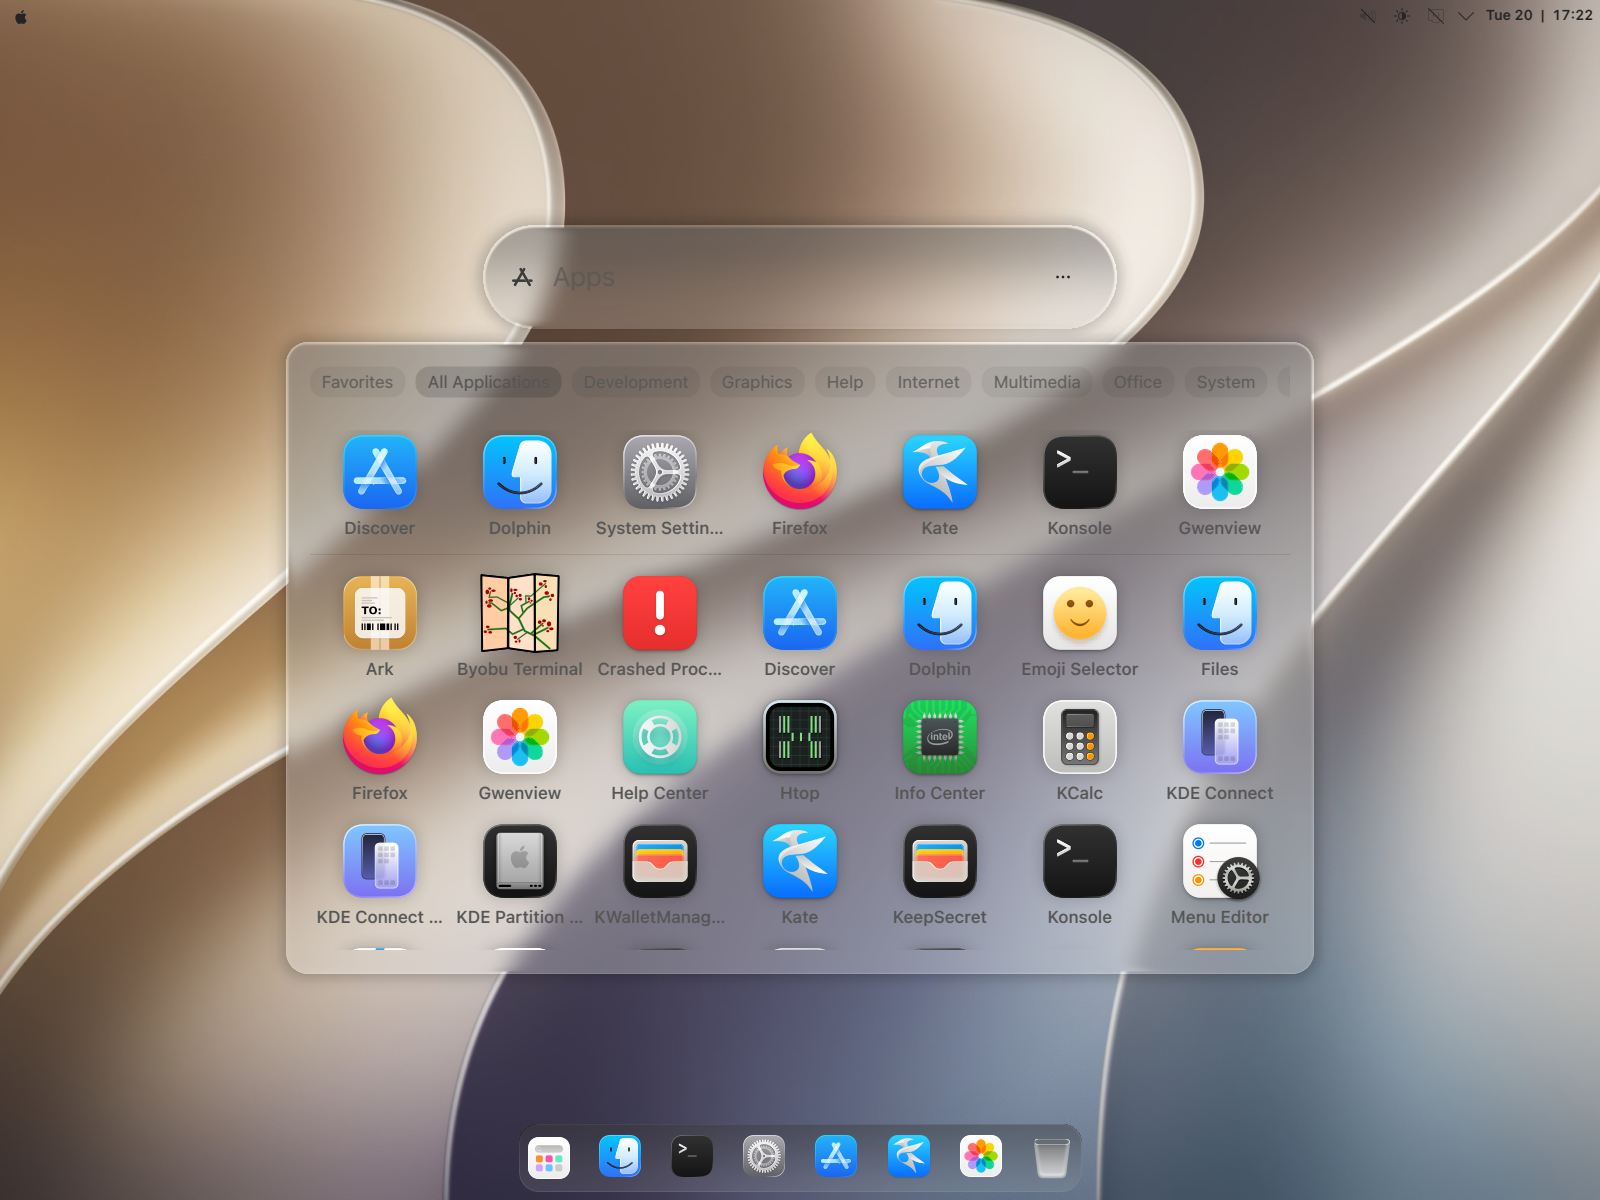
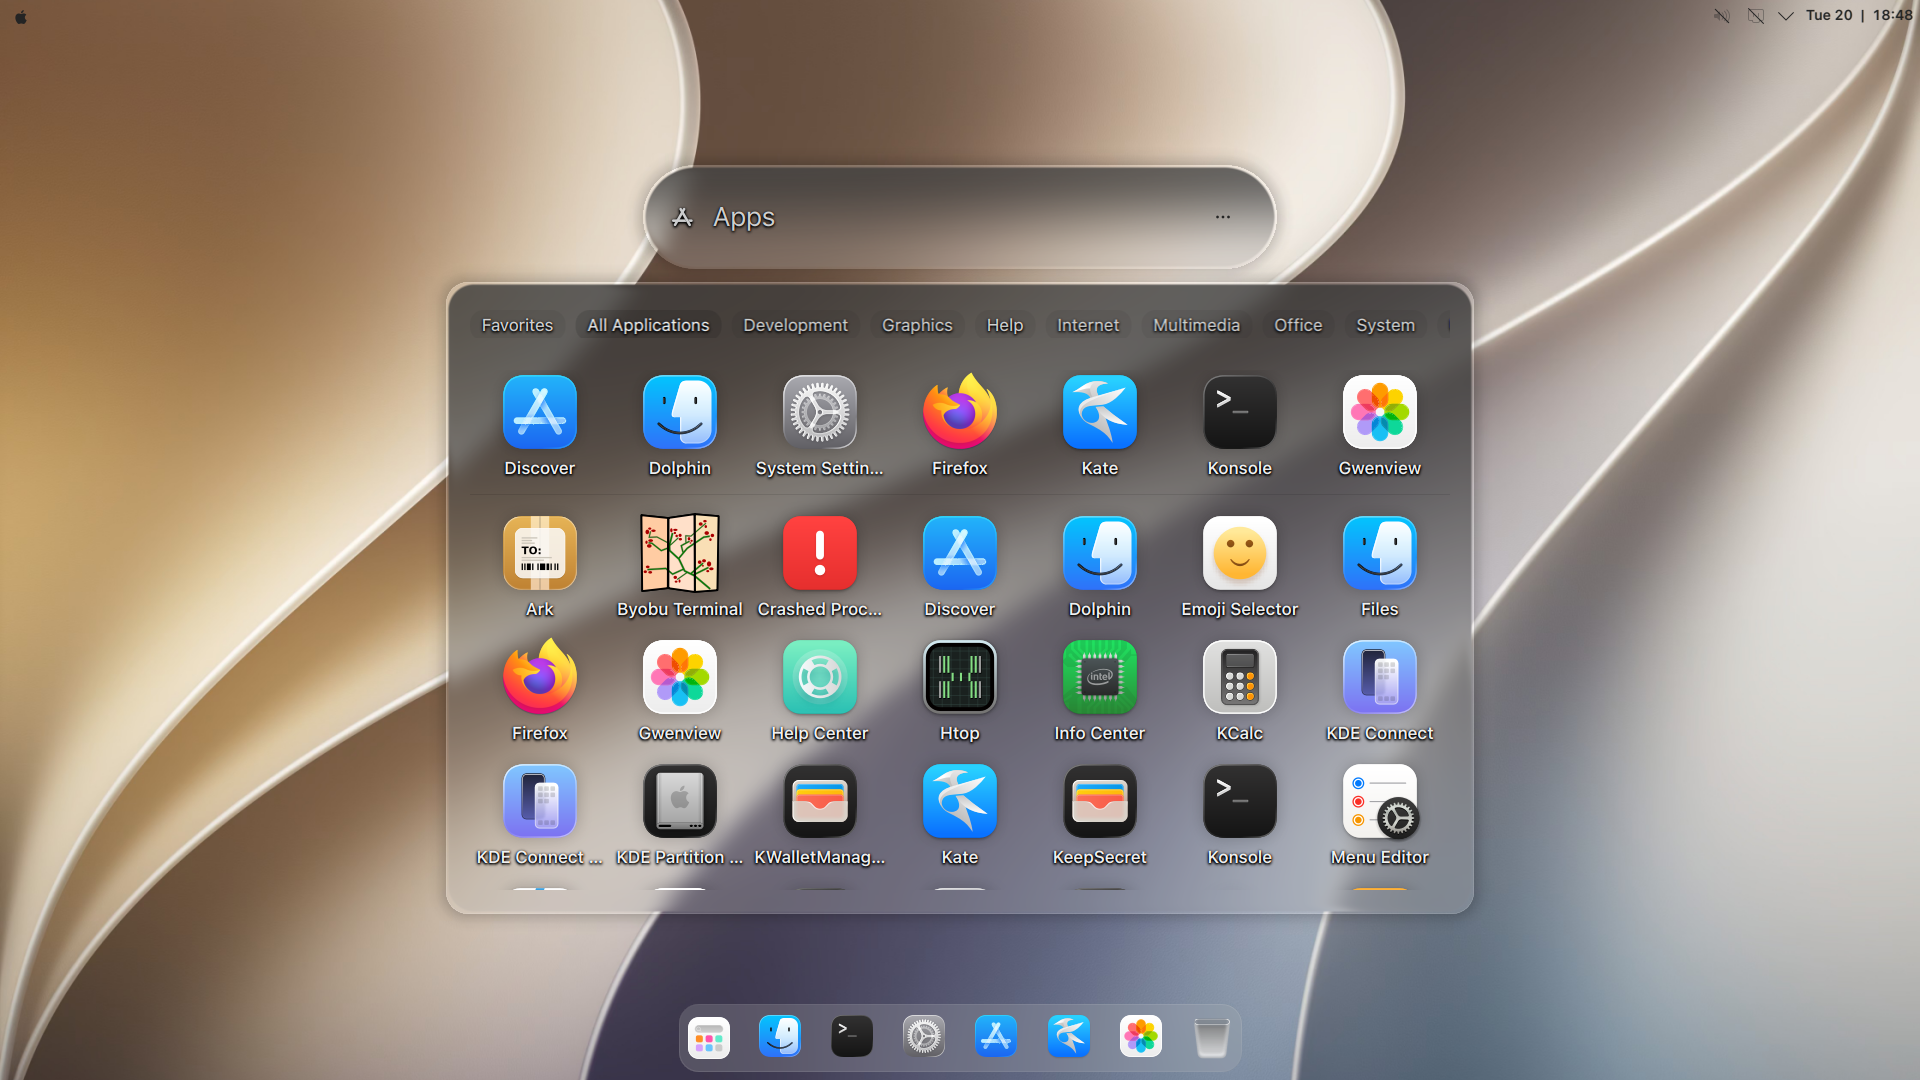
Release v0.56.1: transparent Golden Gate glass with a clear Dock

diff --git a/README.md b/README.md
@@ -17,7 +17,7 @@ macOS Golden Gate-inspired glass, Dock, global menu and app themes for KDE Plasm
 
 ### Acrylic Glass Golden Gate Launcher
 
-The **Golden Gate** glass preset combines deeper blur, gentler refraction and a black gradient at the top. Choose **Clear**, **Tahoe** or **Golden Gate** in the Acrylic Glass effect settings, then customize the complete material. [Material settings](https://github.com/lestercorderomurillo/macos-tahoe-liquid-kde/blob/main/docs/glass-materials.md).
+The **Golden Gate** glass preset combines deeper blur, gentler refraction and a black upper gradient on menus in both light and dark mode. The Dock keeps clear, blurred glass without the gradient. Both modes use transparent surfaces. Choose **Clear**, **Tahoe** or **Golden Gate** in the Acrylic Glass effect settings, then customize the complete material. [Material settings](https://github.com/lestercorderomurillo/macos-tahoe-liquid-kde/blob/main/docs/glass-materials.md).
 
 <p align="center">
   <img src="src/screenshots/launcher_preset_2_light.png" alt="Default Golden Gate preset 2 in light mode, with detached search and Golden Gate wallpaper" width="415">
@@ -231,20 +231,6 @@ mac-tahoe-oled-care status
 
 </details>
 
-<details>
-<summary><b>Reduced transparency</b></summary>
-
-`./installer` → **Features → Transparency → Standard / Reduced → Apply now**.
-
-```sh
-mac-tahoe-theme-switch transparency reduced
-```
-
-Applies to bundled Plasma, Kvantum and GTK themes and persists across theme
-switches and login. Reopen GTK apps if needed. Restore with
-`mac-tahoe-theme-switch transparency standard`.
-
-</details>
 
 <br>
 

diff --git a/AGENTS.md b/AGENTS.md
@@ -32,4 +32,7 @@ before publishing it.
 The shared Acrylic Glass KCM offers Clear, Tahoe and Golden Gate materials.
 The edition initially selects Golden Gate; explicit saved material selections
 and individual overrides must survive reinstalls. Preset data and rendering
-live only in Tahoe, including lighter shared Plasma/Kvantum popup surfaces.
+live only in Tahoe, including transparent shared Plasma/Kvantum popup surfaces.
+Golden Gate menus retain their black upper gradient in light and dark mode;
+the Dock is exempt from the gradient while retaining blur and refraction.
+There is no Reduced Transparency preference or generated opaque variant.
